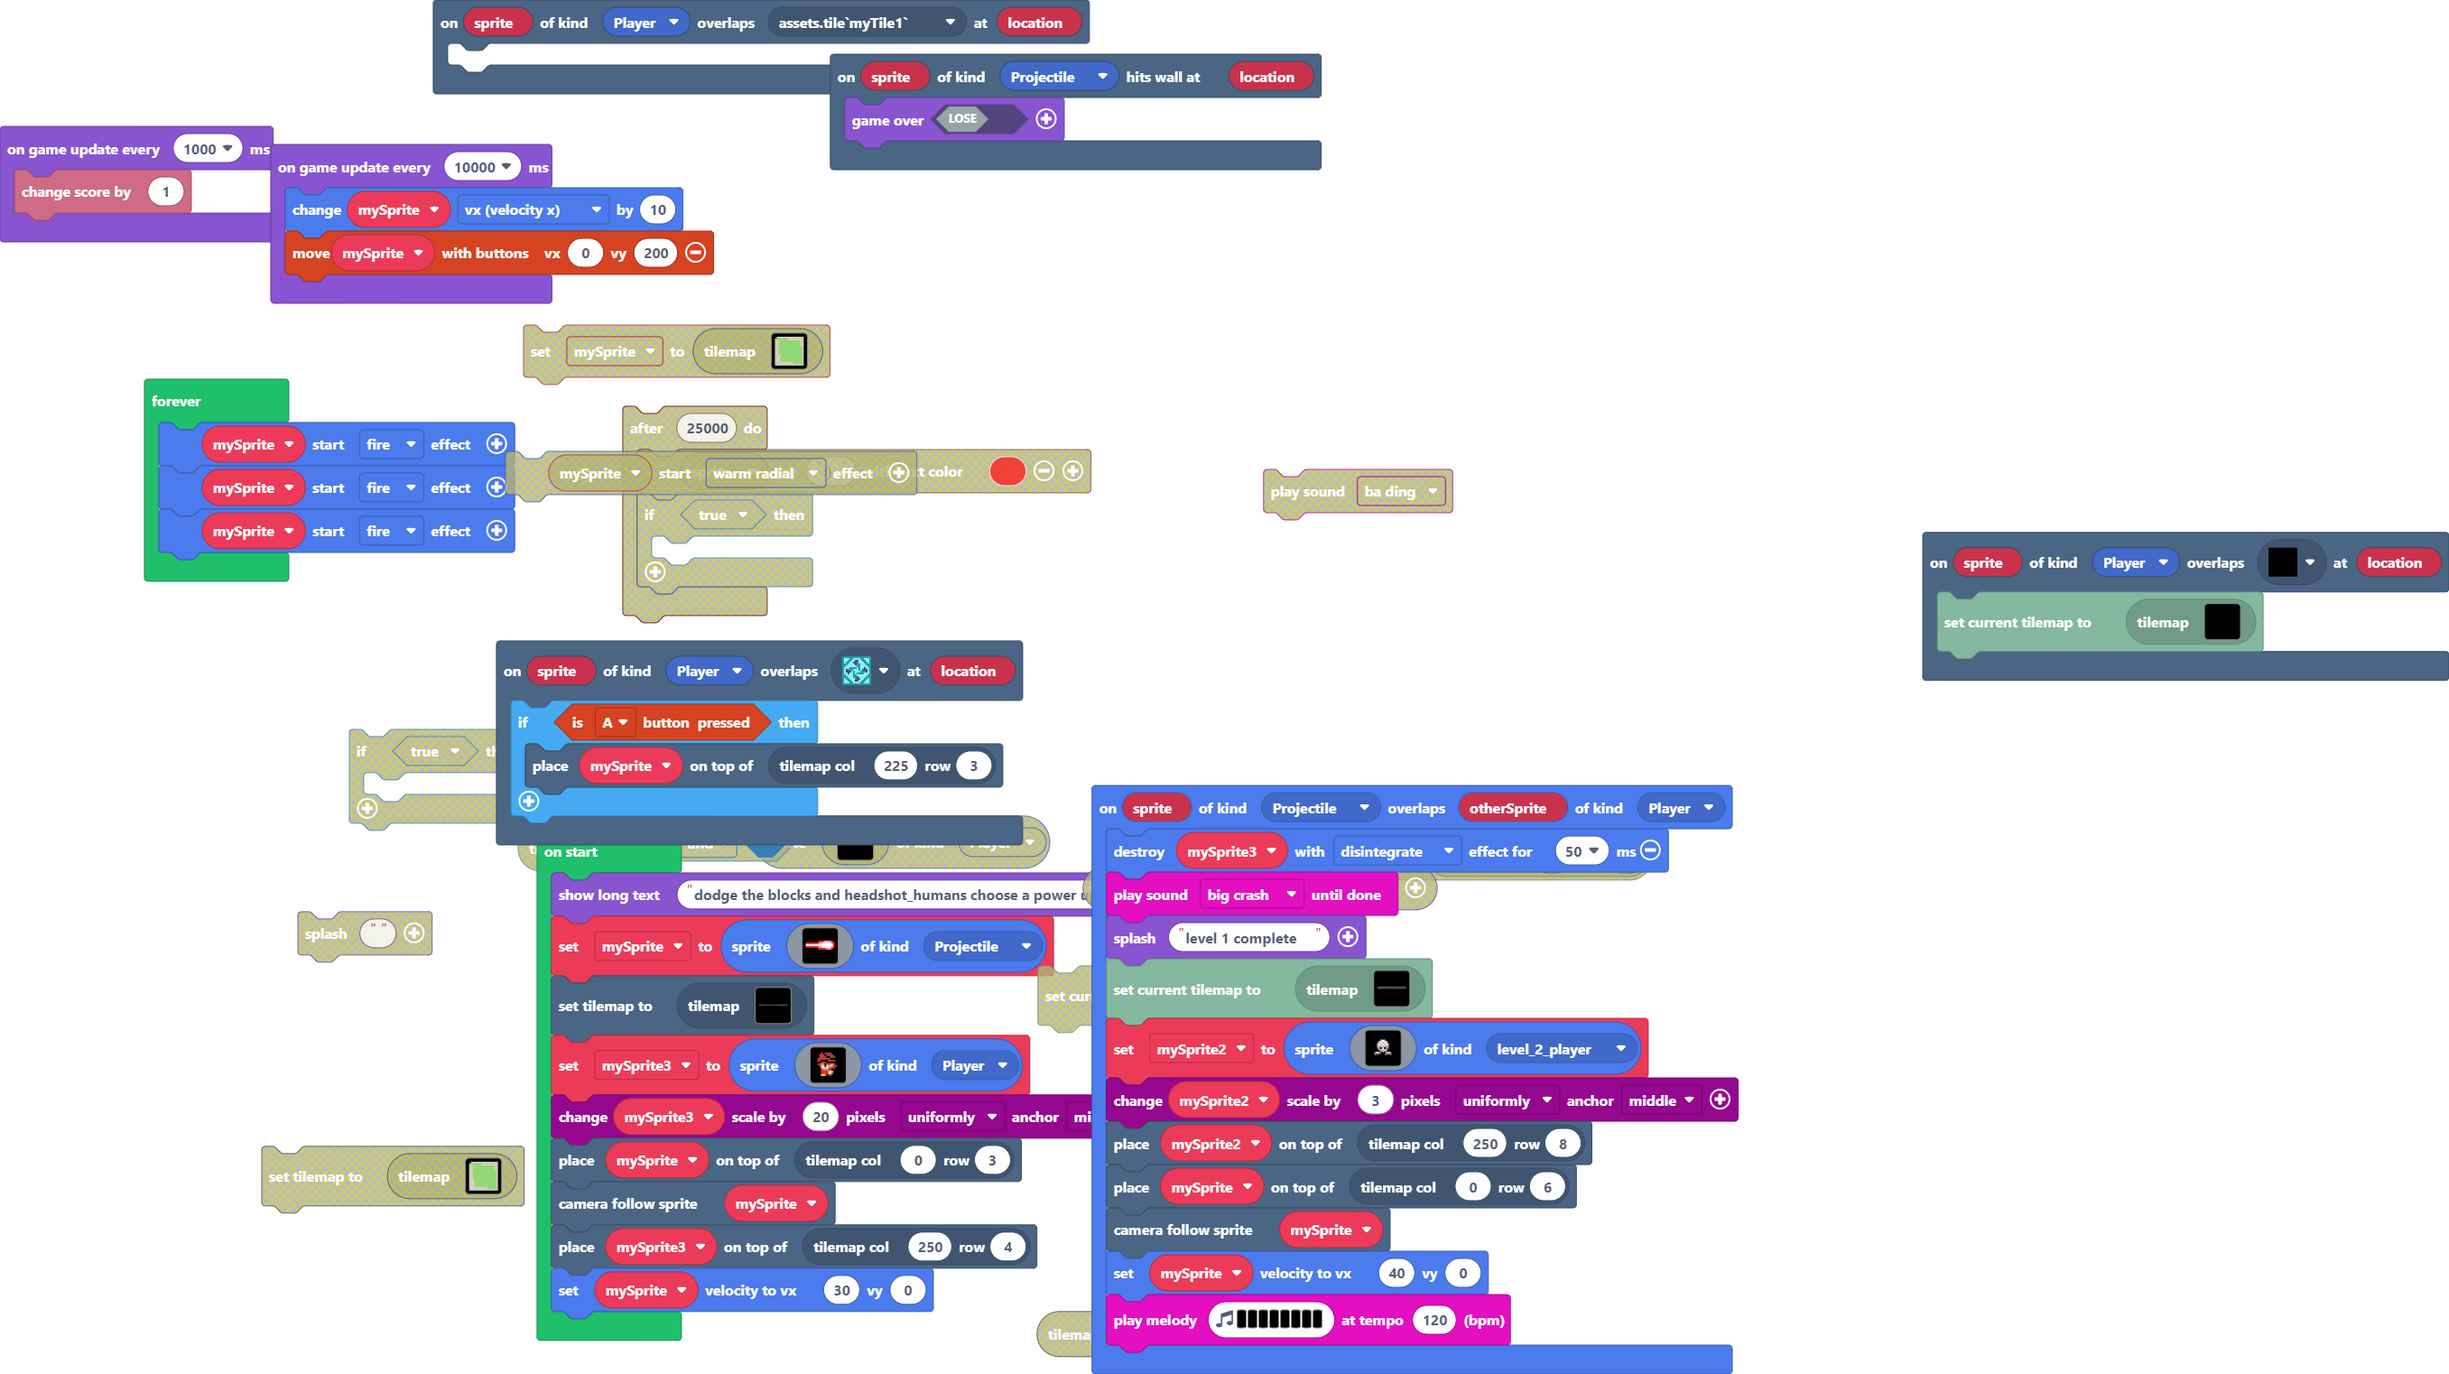
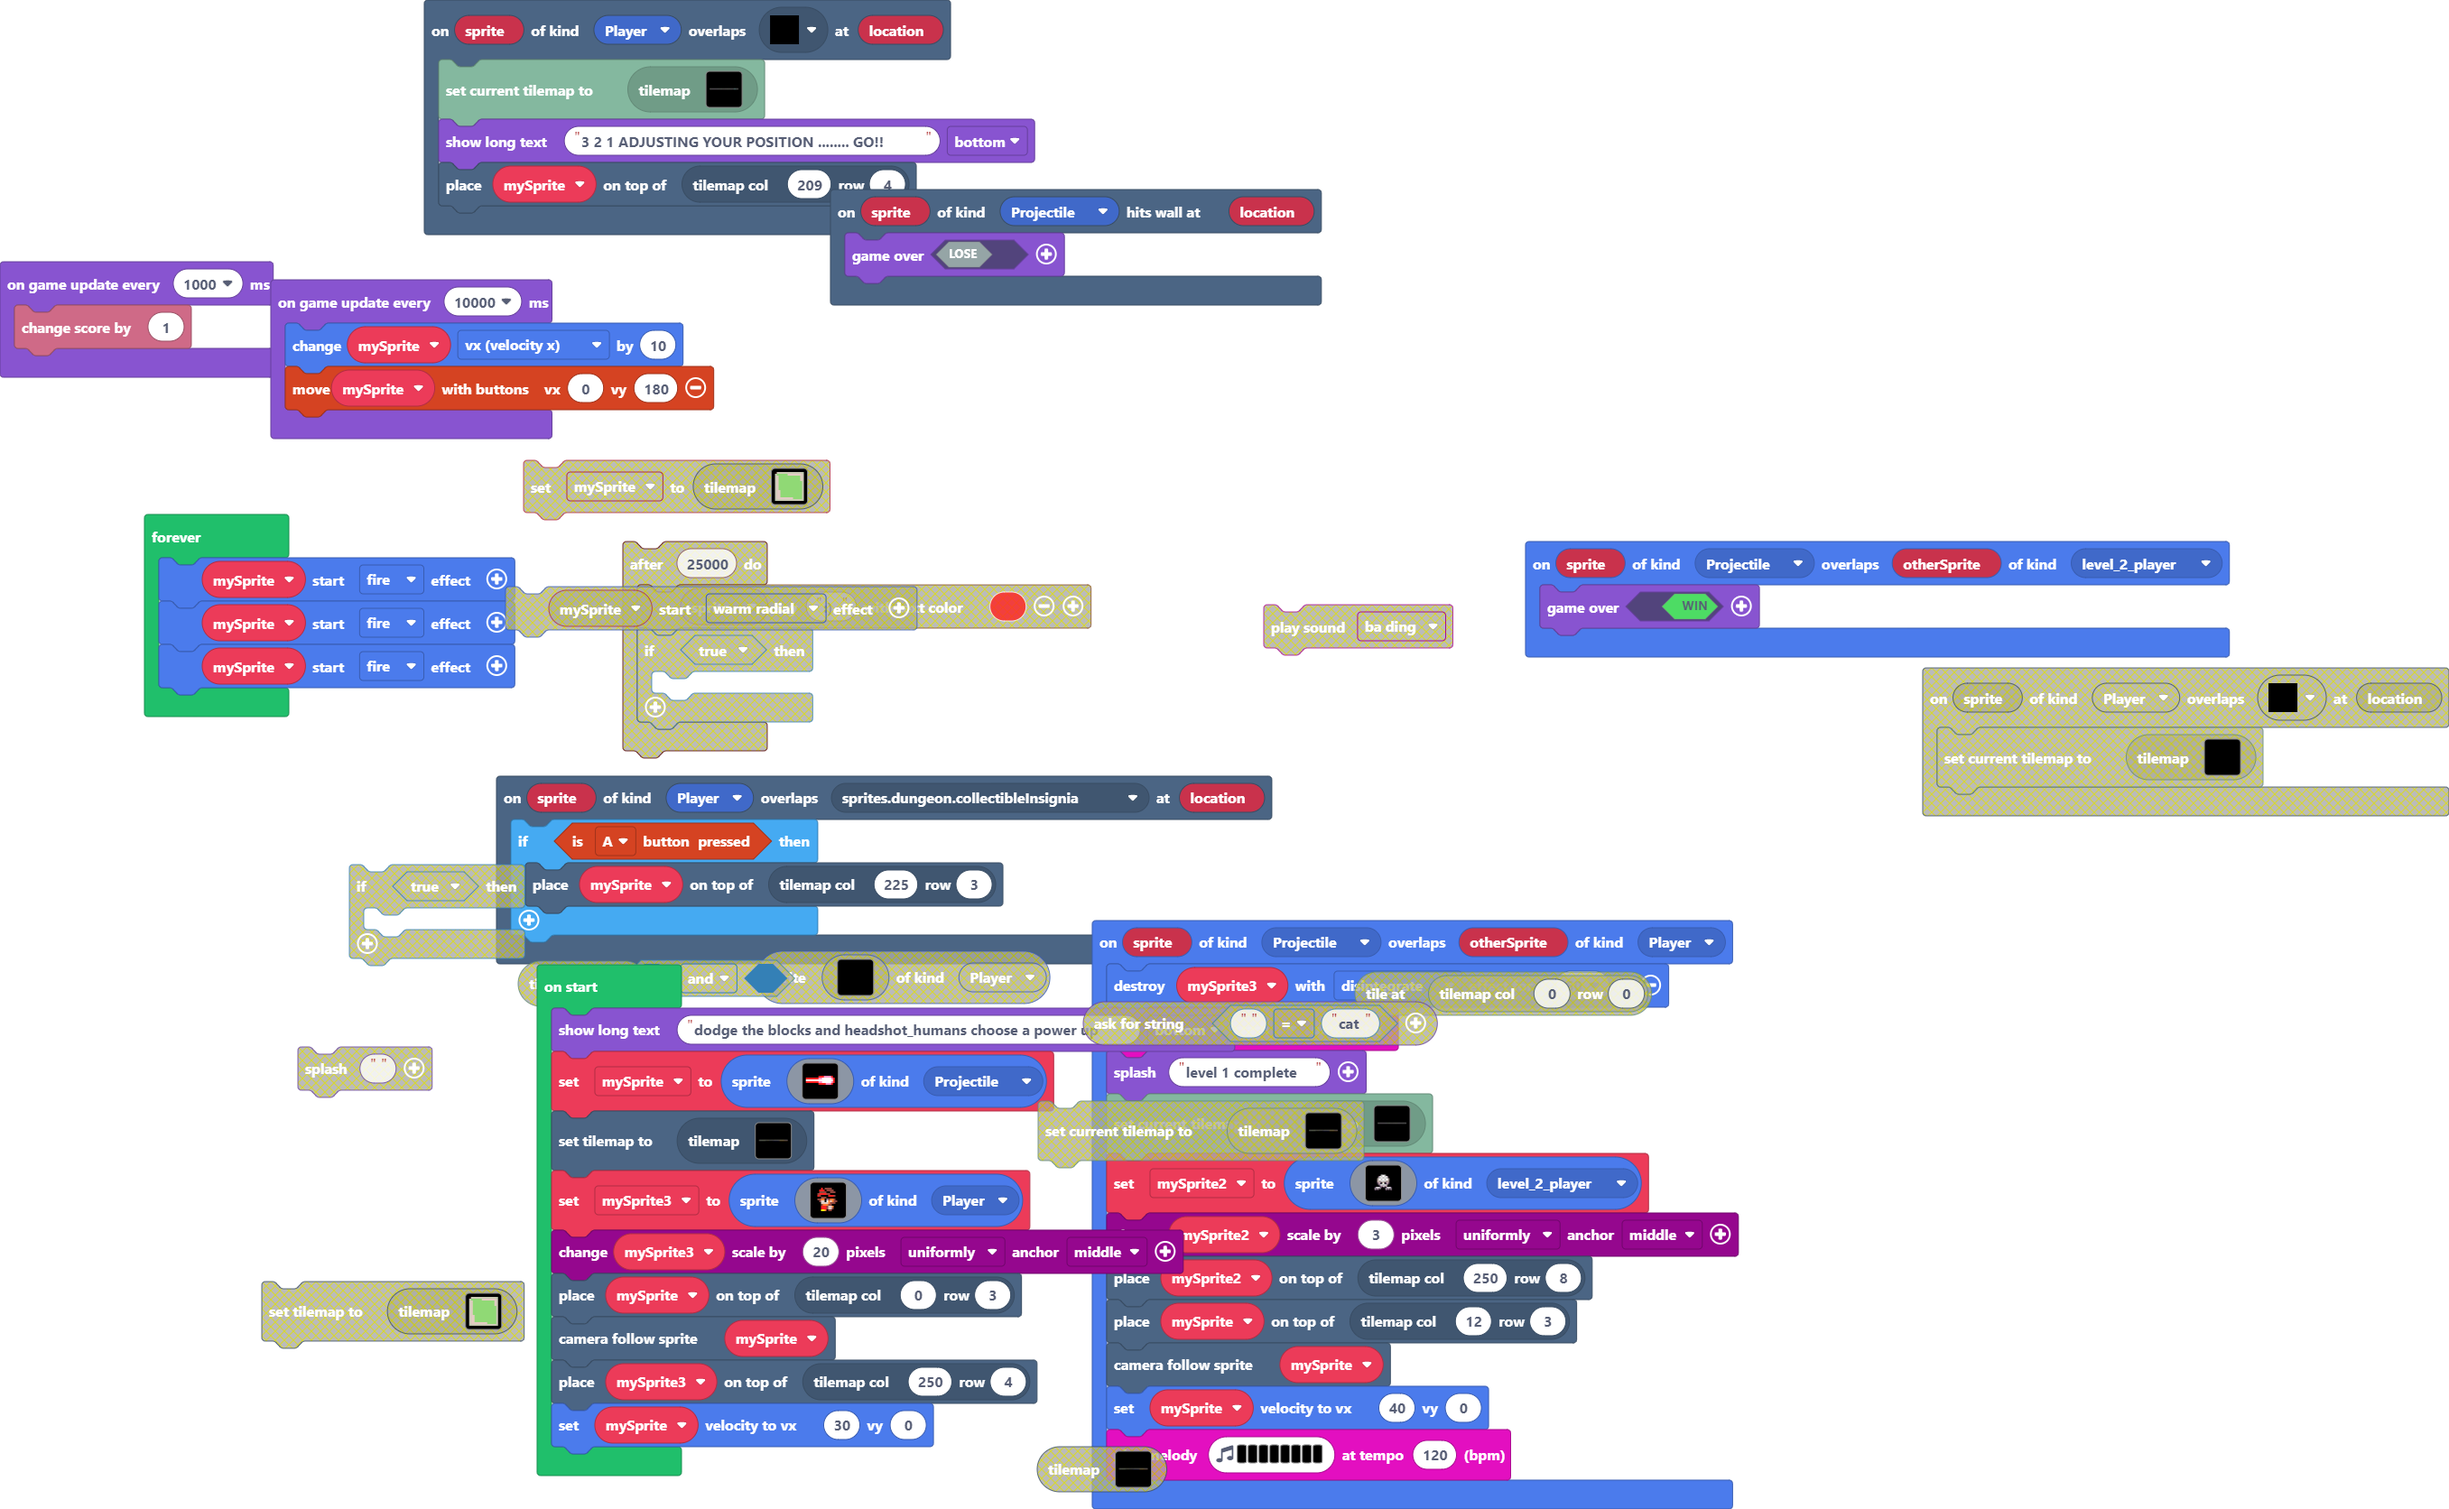
Update pxt.json, main.blocks, main.ts, tilemap.g.jres, tilemap.g.ts

diff --git a/tilemap.g.ts b/tilemap.g.ts
@@ -239,24 +239,27 @@ namespace myTiles {
 ...............................................................................................................................................................................................................................................................
 `, [myTiles.transparency16], TileScale.Sixteen);
             case "level6":
[2 lines of base64/hex data omitted]
 222....222.............................................................................2...........2.....2............2........................2.....................2......2..................................................................................
 222...222..............................................................2................2..........2....2............2........2...............2......................2.....2...................................................................................
 222..222...........................................................................2...2..........2......2...........2........................2......................2....2....................................................................................
-222.222................................................................2...............2...........2....2.............2.......2................2..................2..2...2.....................................................................................
+222.222................................................................2...............2...........2....2.............2.......2...................................2..2...2.....................................................................................
 222.222............................................................................2...............2.....2............2.......................2..................2.2.2...2.....................................................................................
 ...222.................................................................2................................2.....................2...............2.................2...2...2......................................................................................
-...................................................................................2..............2....2.......................................2...............................................................................................................
-...222.................................................................2..............................2.......................2...............2.................2...2...2......................................................................................
-222.222............................................................................2..........2...............................................2..................2.2.2...2.....................................................................................
-222.222................................................................2.......................2.......22.....................2................2..................2..2...2.....................................................................................
-222..222........222................................................................2...........2.........2...........................................................2....2..........2.........................................................................
-222...222....222.......................................................2......................2.........2........2........2...2......................................2.....2......2............................................................................
-222....222.....222.................................................................2.........2...........2.......2........2....................2.....................2......2.......2..........................................................................
-222.....222.222........................................................2......................2.........2.........2......2....2................2.....................2.......2...2.............................................................................
-222......222..222..............................................................................2.........2.......2........2....................2.....................2........2....2...........................................................................
+...................................................................................2..............2............................................2...............................................................................................................
 ...............................................................................................................................................................................................................................................................
-`, [myTiles.transparency16,sprites.dungeon.collectibleInsignia,sprites.dungeon.stairWest,sprites.dungeon.stairEast,sprites.dungeon.floorLight0,sprites.builtin.oceanSand2,sprites.dungeon.floorDarkDiamond,myTiles.tile2,myTiles.tile3,myTiles.tile4,myTiles.tile5], TileScale.Sixteen);
+`, [myTiles.transparency16,sprites.builtin.oceanSand2,sprites.dungeon.floorDarkDiamond,myTiles.tile3,myTiles.tile4,myTiles.tile5], TileScale.Sixteen);
+            case "level15":
[1 lines of base64/hex data omitted]
+222....222.............................................................................2...........2.....2............2........................2.....................2......2...........................................2.2....................................
+222...222..............................................................2................2..........2....2............2........2...............2......................2.....2............................................2.2....................................
+222..222...........................................................................2...2..........2......2...........2........................2......................2....2.............................................2.2.22222....2.........................
+222.222................................................................2...............2...........2....2.............2.......2...................................2..2...2.................................................2....2....22........................
+222.222............................................................................2...............2.....2............2.......................2..................2.2.2...2............................................................22.......................
+...222.................................................................2................................2.....................2...............2.................2...2...2...............................................2.22.2.........22......................
+...................................................................................2..............2............................................2........................................................................2.2.222222222...22.....................
+........................................................................................................................................................................................................................2.2..............22....................
+`, [myTiles.transparency16,myTiles.tile3,myTiles.tile4,myTiles.tile5,sprites.dungeon.floorDarkDiamond,sprites.builtin.oceanSand2], TileScale.Sixteen);
         }
         return null;
     })

diff --git a/main.ts b/main.ts
@@ -1,9 +1,6 @@
 namespace SpriteKind {
     export const level_2_player = SpriteKind.create()
 }
-scene.onOverlapTile(SpriteKind.Player, assets.tile`myTile1`, function (sprite, location) {
-	
-})
 sprites.onOverlap(SpriteKind.Projectile, SpriteKind.Player, function (sprite, otherSprite) {
     mySprite3.destroy(effects.disintegrate, 50)
     music.bigCrash.playUntilDone()
@@ -37,13 +34,18 @@ sprites.onOverlap(SpriteKind.Projectile, SpriteKind.Player, function (sprite, ot
         `, SpriteKind.level_2_player)
     scaling.scaleByPixels(mySprite2, 3, ScaleDirection.Uniformly, ScaleAnchor.Middle)
     tiles.placeOnTile(mySprite2, tiles.getTileLocation(250, 8))
-    tiles.placeOnTile(mySprite, tiles.getTileLocation(0, 6))
+    tiles.placeOnTile(mySprite, tiles.getTileLocation(12, 3))
     scene.cameraFollowSprite(mySprite)
     mySprite.setVelocity(40, 0)
     music.playMelody("F C A D F E - D ", 120)
 })
+sprites.onOverlap(SpriteKind.Projectile, SpriteKind.level_2_player, function (sprite, otherSprite) {
+    game.over(true)
+})
 scene.onOverlapTile(SpriteKind.Player, assets.tile`myTile3`, function (sprite, location) {
-    tiles.loadMap(tiles.createMap(tilemap`level14`))
+    tiles.loadMap(tiles.createMap(tilemap`level15`))
+    game.showLongText("3 2 1 ADJUSTING YOUR POSITION ........ GO!!", DialogLayout.Bottom)
+    tiles.placeOnTile(mySprite, tiles.getTileLocation(209, 4))
 })
 scene.onHitWall(SpriteKind.Projectile, function (sprite, location) {
     game.over(false)
@@ -109,5 +111,5 @@ forever(function () {
 })
 game.onUpdateInterval(10000, function () {
     mySprite.vx += 10
-    controller.moveSprite(mySprite, 0, 200)
+    controller.moveSprite(mySprite, 0, 180)
 })
